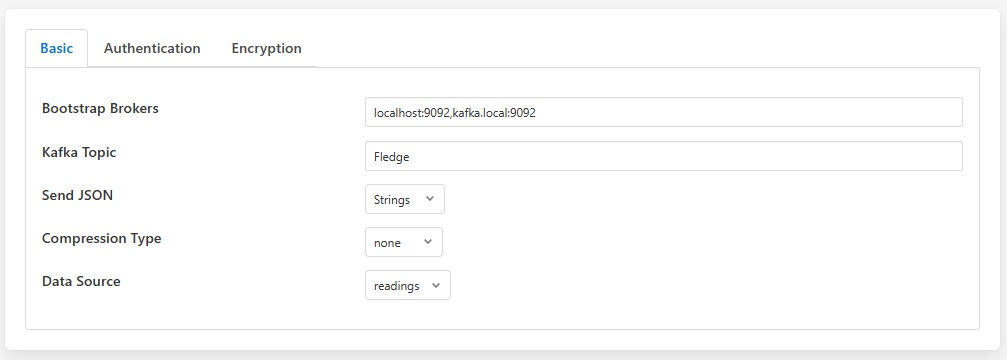
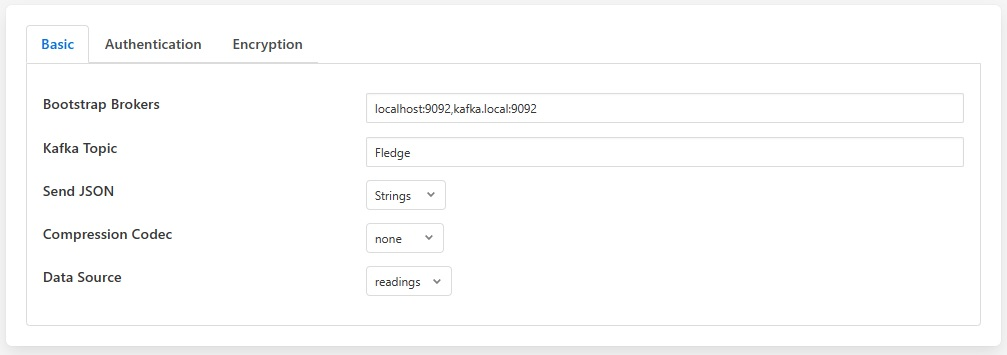
FOGL-7966 : Fixed review comments

diff --git a/kafka.cpp b/kafka.cpp
@@ -194,7 +194,13 @@ void Kafka::applyConfig_Basic(ConfigCategory*& configData)
 	if (rd_kafka_conf_set(m_conf, "compression.codec", configData->getValue("compression").c_str(),
                               errstr, sizeof(errstr)) != RD_KAFKA_CONF_OK)
 	{
-		Logger::getLogger()->warn("compression codec %s couldn't be set because %s. Continue with no/previous compression",configData->getValue("compression").c_str(),errstr);
+		// Get previous compression codec
+		char compressionCodec[10];
+		size_t length = sizeof(compressionCodec);
+		rd_kafka_conf_res_t res;
+		res = rd_kafka_conf_get(m_conf, "compression.codec", compressionCodec, &length);
+		
+		Logger::getLogger()->warn("Compression codec %s couldn't be set because %s. Continuing with %s compression", configData->getValue("compression").c_str(), errstr, compressionCodec);
 	}
 
 	// Set the error callback function

diff --git a/plugin.cpp b/plugin.cpp
@@ -56,7 +56,7 @@ static const char *default_config = QUOTE({
 		"options" : ["Objects","Strings"]
 		},
 	"compression": {
-		"description": "The compression codec to be used to send data to Kafka broker",
+		"description": "The compression codec to be used to send data to the Kafka broker",
 		"type": "enumeration",
 		"default": "none",
 		"order": "4",
